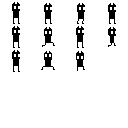
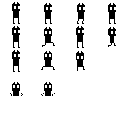
Render health and drown in da pond

Changed region(s): [[0.3125, 0.625, 0.4375, 0.75], [0.0625, 0.625, 0.1875, 0.75]]

diff --git a/src/states/vania.ts b/src/states/vania.ts
@@ -21,6 +21,9 @@ import { ParticleManagerComponent } from "../components/particle-manager"
 import { SaveManager } from "../helpers/save-manager";
 import { PowerupAnimations } from "../helpers/powerup";
 import { GainNailScreen } from "./gain-nail";
+import { Drowner } from "../components/drowner";
+import { Health } from "../components/health";
+import { PlayerHealthRender } from "../components/player-health-render";
 
 const PlayerForms = [
     AttackForm
@@ -43,12 +46,14 @@ export class VaniaScreen extends State {
         const mapEntity = new Entity(this, [], 'map');
         this.map = mapEntity.add(MapComponent);
         this.player = new Entity(this, [
+            Health,
             Transitioner,
             MapTraveller,
             SpriteComponent,
             Hitbox,
             PlayerPhysics,
             PlayerAnimation,
+            Drowner,
         ], 'player');
         this.player.position.x = 46;
         this.player.position.y = 9 * 12;
@@ -74,6 +79,17 @@ export class VaniaScreen extends State {
         // Teleportation
         this.player.get(MapTraveller)?.onTeleport(this.teleport.bind(this));
 
+        // Health management
+        const health = this.player.get(Health);
+        health?.onDie(() => console.log('die'));
+        health?.setCurrentHealth(3);
+        health?.setMaxHealth(5);
+
+        // Drowning
+        this.player.get(Drowner)?.onDrown(() => {
+            health?.takeDamage(1);
+        });
+
         // Making UI lol
         this.ui = new Entity(this);
         this.remove(this.ui);
@@ -82,6 +98,7 @@ export class VaniaScreen extends State {
 
         // Haha I'm hacking hahaha
         const formFrame = this.ui.addChild(new Entity(this));
+        formFrame.position.x = this.game.size.x - 20;
         this.currentFormFrame = formFrame.add(SpriteComponent)
             .setImage('./images/forms.png')
             .setSize(20, 20)
@@ -89,11 +106,18 @@ export class VaniaScreen extends State {
             .setActive(hasAnyForms);
 
         const formType = this.ui.addChild(new Entity(this, [SpriteComponent]));
+        formType.position = formFrame.position.copy();
         this.currentForm = formType.add(SpriteComponent)
             .setImage('./images/forms.png')
             .setSize(20, 20)
             .runAnimation({ name: 'Frame', frameTime: 0, repeat: true, sheet: [1] })
             .setActive(hasAnyForms);
+
+        // Add player health to UI
+        const playerHealth = this.ui.addChild(new Entity(this));
+        playerHealth.position.x = 4;
+        playerHealth.position.y = 4;
+        playerHealth.add(PlayerHealthRender).health = this.player.get(Health);
     }
 
     init() {
@@ -249,6 +273,8 @@ export class VaniaScreen extends State {
         }
 
         super.update(dt);
+
+        this.ui.update(dt);
     }
 
     render(ctx: CanvasRenderingContext2D) {

diff --git a/src/components/drowner.ts b/src/components/drowner.ts
@@ -1,0 +1,89 @@
+import { Component, Point } from "../../lib/juicy";
+import { getMapFromComponent } from "../helpers/quick-get";
+import { TileInfo } from "../helpers/tiles";
+import { PlayerPhysics } from "./player-physics";
+import { Hitbox } from "./stupid-hitbox";
+import { Transitioner } from "./transitioner";
+
+export class Drowner extends Component {
+    drowning = false;
+    lastSafe = new Point();
+    callback?: () => void;
+
+    onDrown(callback: () => void) {
+        this.callback = callback;
+    }
+
+    update(dt: number) {
+        const map = getMapFromComponent(this)
+        if (!map) {
+            console.error(`Can't simulate physics without a map entity. Add this to your scene: new Entity(this, 'map', [MapComponent]);`);
+            this.setActive(false);
+            return;
+        }
+
+        const hitbox = this.entity.get(Hitbox);
+        if (!hitbox) {
+            console.error(`Can't simulate physics without a hitbox. Add the Hitbox component to your entity`);
+            this.setActive(false);
+            return;
+        }
+
+        const transitioner = this.entity.get(Transitioner);
+        const physics = this.entity.get(PlayerPhysics);
+
+        if (this.drowning) {
+
+        }
+
+        // Test map collision
+        const { min, max } = hitbox.getBounds();
+
+        // Little bit of grace
+        max.y -= 4;
+        const tileMin = map.getTileCoords(min);
+        const tileMax = map.getTileCoords(max);
+
+        // Check every tile we overlap with.
+        let drown = false;
+        for (let tx = tileMin.x; tx <= tileMax.x; tx++) {
+            for (let ty = tileMin.y; ty <= tileMax.y; ty++) {
+                const tile = map.getTile(tx, ty);
+
+                if (TileInfo[tile].mustSwim) {
+                    drown = true;
+                }
+            }
+        }
+
+        if (drown && !this.drowning) {
+            this.drowning = true;
+            if (transitioner) {
+                transitioner.transition({
+                    type: 'Drown',
+                    time: 1,
+                    onComplete: () => {
+                        this.entity.position = this.lastSafe;
+                        if (this.callback) {
+                            this.callback();
+                        }
+                    },
+                });
+            }
+            else if (this.callback) {
+                this.callback();
+            }
+        }
+        else if (!drown) {
+            // Stay a safe distance away from edges.
+            if (
+                physics?.isBlocked(0, 1) &&
+                physics?.isBlocked(3 * (max.x - min.x), 1) &&
+                physics?.isBlocked(3 * (min.x - max.x), 1)
+            ) {
+                this.lastSafe = this.entity.position.copy();
+            }
+            this.drowning = false;
+        }
+    }
+}

diff --git a/src/components/player-health-render.ts b/src/components/player-health-render.ts
@@ -1,0 +1,57 @@
+import { Component } from "../../lib/juicy";
+import { Health } from "./health";
+
+export class PlayerHealthRender extends Component {
+    health?: Health;
+    image = new Image();
+    showHealth = 0;
+
+    constructor() {
+        super();
+
+        this.image.src = './images/healthcounter.png';
+    }
+
+    update(dt: number) {
+        if (!this.health) {
+            return;
+        }
+
+        // Animate health in.
+        const speed = 5;
+        const { health } = this.health;
+        if (this.showHealth < health) {
+            this.showHealth += speed * dt;
+            this.showHealth = Math.min(this.showHealth, health);
+        }
+        else if (this.showHealth > health) {
+            this.showHealth -= speed * dt;
+            this.showHealth = Math.max(this.showHealth, health);
+        }
+    }
+
+    render(ctx: CanvasRenderingContext2D) {
+        if (!this.health) {
+            return;
+        }
+
+        const { maxHealth } = this.health;
+        for (let i = 0; i < maxHealth; i++) {
+            if (i + 1 <= this.showHealth) {
+                ctx.drawImage(this.image, 0, 0, 8, 10, i * 10, 0, 8, 10);
+            }
+            else if (i + 0.75 < this.showHealth) {
+                ctx.drawImage(this.image, 8, 0, 8, 10, i * 10, 0, 8, 10);
+            }
+            else if (i + 0.5 < this.showHealth) {
+                ctx.drawImage(this.image, 16, 0, 8, 10, i * 10, 0, 8, 10);
+            }
+            else if (i + 0.25 < this.showHealth) {
+                ctx.drawImage(this.image, 24, 0, 8, 10, i * 10, 0, 8, 10);
+            }
+            else {
+                ctx.drawImage(this.image, 32, 0, 8, 10, i * 10, 0, 8, 10);
+            }
+        }
+    }
+}

diff --git a/src/helpers/tiles.ts b/src/helpers/tiles.ts
@@ -23,6 +23,7 @@ export enum Tile {
 
 interface TileInfo {
     walkable: boolean;
+    mustSwim?: boolean;
     offset: Point;
     offsetAnim?: Point[];
     offsetAnimTime?: number;
@@ -90,36 +91,42 @@ export const TileInfo: { [key in Tile]: TileInfo } = {
         background: true,
     },
     [Tile.WaterTop1]: {
-        walkable: false,
+        walkable: true,
+        mustSwim: true,
         offset: new Point(3, 1),
         offsetAnim: [new Point(5, 1)],
         background: true,
     },
     [Tile.WaterTop2]: {
-        walkable: false,
+        walkable: true,
+        mustSwim: true,
         offset: new Point(4, 1),
         offsetAnim: [new Point(6, 1)],
         background: true,
     },
     [Tile.Water1]: {
-        walkable: false,
+        walkable: true,
+        mustSwim: true,
         offset: new Point(3, 2),
         offsetAnim: [new Point(5, 2)],
         background: true,
     },
     [Tile.Water2]: {
-        walkable: false,
+        walkable: true,
+        mustSwim: true,
         offset: new Point(4, 2),
         offsetAnim: [new Point(6, 2)],
         background: true,
     },
     [Tile.Water3]: {
-        walkable: false,
+        walkable: true,
+        mustSwim: true,
         offset: new Point(3, 3),
         background: true,
     },
     [Tile.Water4]: {
-        walkable: false,
+        walkable: true,
+        mustSwim: true,
         offset: new Point(4, 3),
         background: true,
     },

diff --git a/src/components/transitioner.ts b/src/components/transitioner.ts
@@ -17,7 +17,11 @@ export interface GetFormTransition {
     powerup: SpriteComponent;
 }
 
-export type Transition = (MoveTransition | GetFormTransition) & {
+export interface DrownTransition {
+    type: 'Drown';
+}
+
+export type Transition = (MoveTransition | GetFormTransition | DrownTransition) & {
     time: number;
     onComplete?: () => void;
 };
@@ -66,6 +70,8 @@ export class Transitioner extends Component {
                 playerStart: this.entity.position.copy(),
                 powerupStart: this.currentTransition.powerup.entity.position.copy(),
             };
+            break;
+        case 'Drown':
             break;
         }
     }
@@ -187,6 +193,9 @@ export class Transitioner extends Component {
                 break;
             case 'GetForm':
                 this.updateFormAnimation();
+                break;
+            case 'Drown':
+                this.entity.get(SpriteComponent)?.runAnimation(PlayerAnimations.Drowning);
                 break;
             }
 

diff --git a/src/components/health.ts b/src/components/health.ts
@@ -1,0 +1,41 @@
+import { Component } from "../../lib/juicy";
+
+export class Health extends Component {
+    health = 1;
+    maxHealth = 1;
+    private dieCallback?: (health: Health) => void;
+
+    onDie(callback: (health: Health) => void) {
+        this.dieCallback = callback;
+        return this; // enable chaining
+    }
+
+    setMaxHealth(maxHealth: number) {
+        this.maxHealth = maxHealth;
+    }
+
+    setCurrentHealth(health: number) {
+        this.health = health;
+    }
+
+    die() {
+        if (this.dieCallback) {
+            this.dieCallback(this);
+        }
+        else {
+            // Simple mode, go bye bye
+            this.entity.state.remove(this.entity);
+        }
+    }
+
+    takeDamage(damage: number) {
+        this.health -= damage;
+        if (this.health <= 0) {
+            this.die();
+        }
+    }
+
+    heal(amount: number) {
+        this.health = Math.min(this.health + amount, this.maxHealth);
+    }
+}

diff --git a/src/components/physics.ts b/src/components/physics.ts
@@ -56,7 +56,12 @@ export class PhysicsBody extends Component {
     }
 
     isBlocked(dx: number, dy: number) {
-        return this.blocked[dy + 1]![dx + 1];
+        if (dx >= -1 && dx <= 1 && dy >= -1 && dy <= 1) {
+            return this.blocked[dy + 1]![dx + 1];
+        }
+        else {
+            return !this.isValidMove(dx, dy, getMapFromComponent(this)!, this.entity.get(Hitbox)!);
+        }
     }
 
     update(dt: number, game: typeof Game) {

diff --git a/src/components/player-physics.ts b/src/components/player-physics.ts
@@ -40,7 +40,7 @@ export class PlayerPhysics extends PhysicsBody {
             // Start jump
             if (this.coyote > 0 && !this.upWasPressed) {
                 this.velocity.y = -150;
-                this.jumpTail = 0.5;
+                this.jumpTail = 0.3;
                 this.coyote = 0;
             }
             else if (this.jumpTail > 0 && this.velocity.y < 0) {

diff --git a/src/components/player-animation.ts b/src/components/player-animation.ts
@@ -42,6 +42,12 @@ export const PlayerAnimations = {
         frameTime: 0.15,
         repeat: true,
     },
+    Drowning: {
+        name: 'Drowning',
+        sheet: [12, 13],
+        frameTime: 0.05,
+        repeat: true,
+    },
 };
 
 // Verify that PlayerAnimations conforms to { string : Animation }, but
